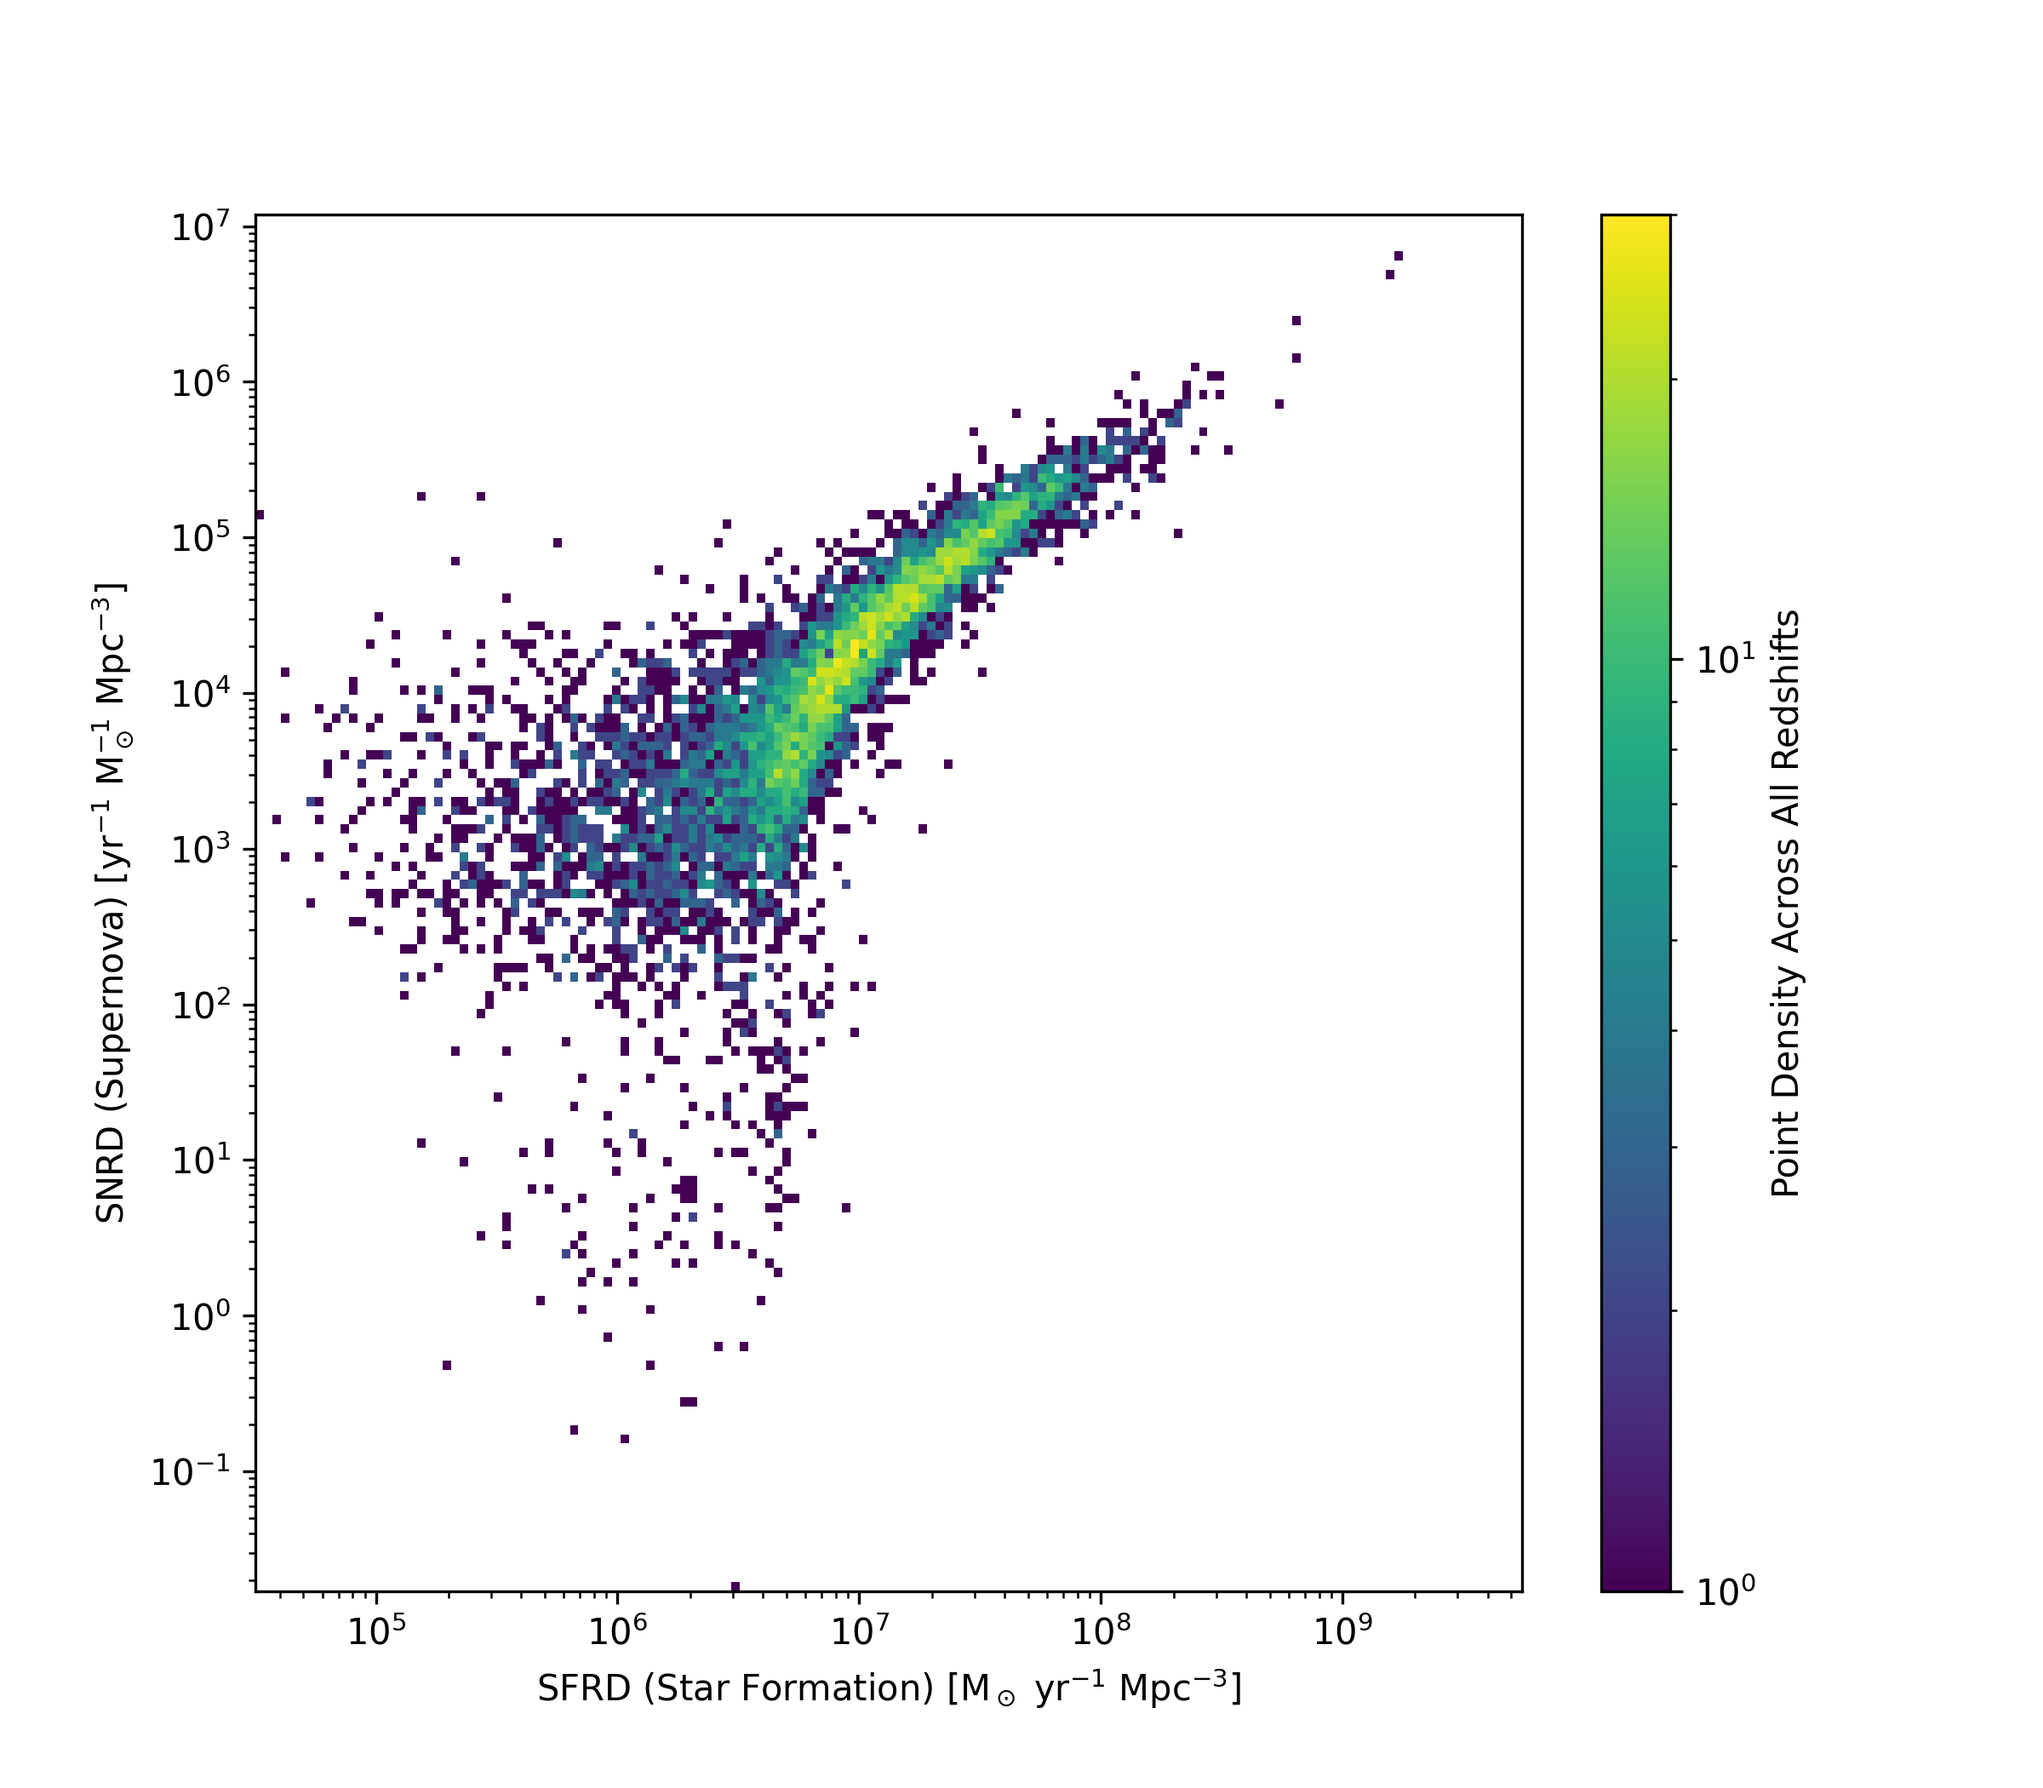
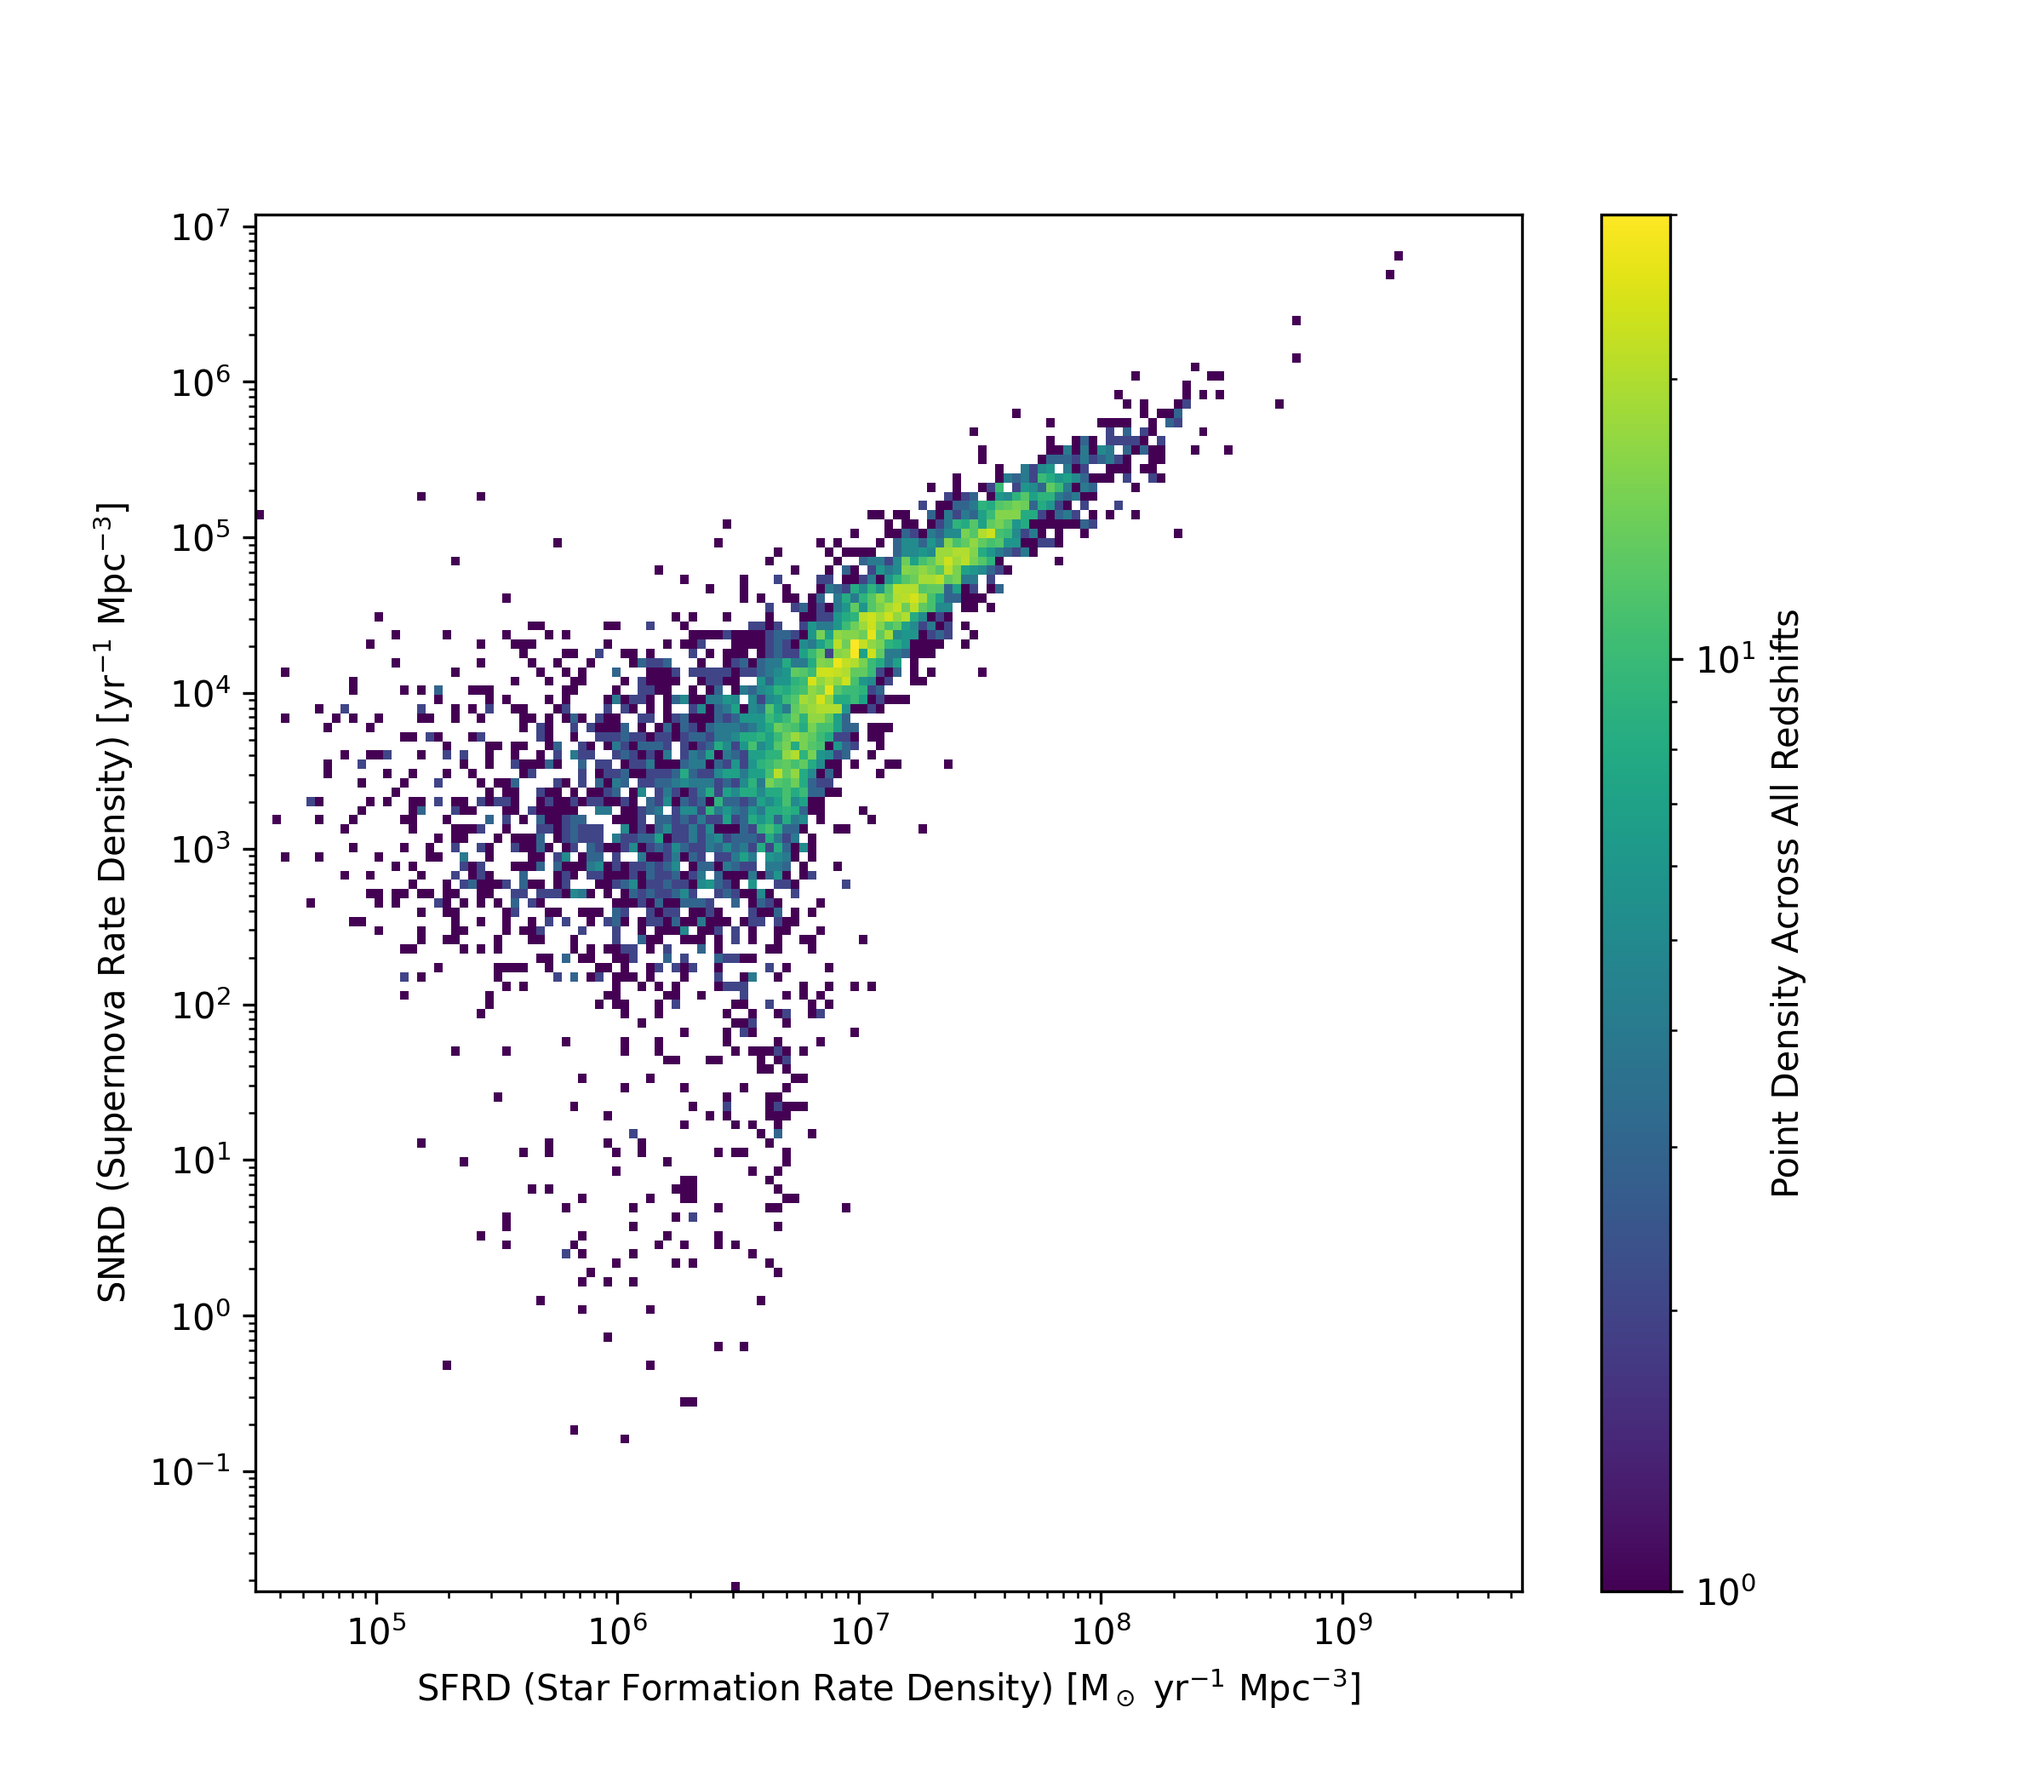
updated units

Changed region(s): [[0.1875, 0.9286, 0.6562, 0.9595], [0.0312, 0.3095, 0.0625, 0.7119]]

diff --git a/tng.py b/tng.py
@@ -306,11 +306,12 @@ def line_fit(x, y):
 def halo_level(snaps):
     
     # set up figures and axes
-    fig_halo_rate, ax_hr = plt_helper(8,7, r'SFR (Star Formation) [$\mathrm{M_\odot\ yr^{-1}}$]', r'SNRD (Supernova) [$\mathrm{yr^{-1}\ M_\odot^{-1}}$]', legendspace=0.2)
-    fig_halo_density, ax_hrd = plt_helper(8,7, r'SFRD (Star Formation) [$\mathrm{M_\odot\ yr^{-1}\ Mpc^{-3}}$]', r'SNRD (Supernova) [$\mathrm{yr^{-1}\ M_\odot^{-1}\ Mpc^{-3}}$]', legendspace=0.2)
-    fig_hist, ax_hist = plt_helper(8,7, r'SFRD (Star Formation) [$\mathrm{M_\odot\ yr^{-1}\ Mpc^{-3}}$]', r'SNRD (Supernova) [$\mathrm{yr^{-1}\ M_\odot^{-1}\ Mpc^{-3}}$]')
-    fig_dense, ax_dense = plt_helper(8, 7, r'SFRD (Star Formation) [$\mathrm{M_\odot\ yr^{-1}\ Mpc^{-3}}$]', r'SNRD (Supernova) [$\mathrm{yr^{-1}\ M_\odot^{-1}\ Mpc^{-3}}$]', legendspace=0.15)
-    fig_av, ax_av = plt_helper(8, 7, r'SFRD (Star Formation) [$\mathrm{M_\odot\ yr^{-1}\ Mpc^{-3}}$]', r'SNRD (Supernova) [$\mathrm{yr^{-1}\ M_\odot^{-1}\ Mpc^{-3}}$]', legendspace=0.15, logx=False, logy=False)
+    fig_halo_rate, ax_hr = plt_helper(8,7, r'SFR (Star Formation Rate) [$\mathrm{M_\odot\ yr^{-1}}$]', r'SNR (Supernova Rate) [$\mathrm{yr^{-1}}$]', legendspace=0.2)
+    fig_halo_density, ax_hrd = plt_helper(8,7, r'SFRD (Star Formation Rate Density) [$\mathrm{M_\odot\ yr^{-1}\ Mpc^{-3}}$]', r'SNRD (Supernova Rate Density) [$\mathrm{yr^{-1}\ Mpc^{-3}}$]', legendspace=0.2)
+    fig_hist, ax_hist = plt_helper(8,7, r'SFRD (Star Formation Rate Density) [$\mathrm{M_\odot\ yr^{-1}\ Mpc^{-3}}$]', r'SNRD (Supernova Rate Density) [$\mathrm{yr^{-1}\ Mpc^{-3}}$]')
+    fig_dense, ax_dense = plt_helper(8, 7, r'SFRD (Star Formation Rate Density) [$\mathrm{M_\odot\ yr^{-1}\ Mpc^{-3}}$]', r'SNRD (Supernova Rate Density) [$\mathrm{yr^{-1}\ Mpc^{-3}}$]', legendspace=0.15)
+    fig_av, ax_av = plt_helper(8, 7, r'SFRD (Star Formation Rate Density) [$\mathrm{M_\odot\ yr^{-1}\ Mpc^{-3}}$]', r'SNRD (Supernova Rate Density) [$\mathrm{yr^{-1}\ Mpc^{-3}}$]', legendspace=0.15, logx=False, logy=False)
+    fig_mass, ax_mass = plt_helper(8, 7, r'Mass [$\mathrm{M_\odot}$]', r'SNR (Supernova Rate) [$\mathrm{yr^{-1}\ M_\odot^{-1}}$]', legendspace=0.15)
 
     all_snrd = []
     all_sfrd = []
@@ -331,15 +332,22 @@ def halo_level(snaps):
         # convert to Mpc3 from Gpc3 => times 1e-9
         sfrd = subhalo_df['sfrd']*1e-9
         snrd = subhalo_df["snrd"]*1e-9
-        # changed from using snr to snr_solar for comparioison to BPASS paper
-        ax_hr.scatter(subhalo_df['sfr'], subhalo_df["snr_solar"], marker='.', color=colours[idx], label=f'z={round(redshift,3)}')
+        ax_hr.scatter(subhalo_df['sfr'], subhalo_df["snr"], marker='.', color=colours[idx], label=f'z={round(redshift,3)}')
         ax_hrd.scatter(sfrd, snrd, marker='.', color=colours[idx], label=f'z={round(redshift,3)}')
 
-        # add to list to be used in histogram
+        # snr_solar should be calculated as sum(pixel_snr)/sum(mass)
+        # these values corrosponds to bpass paper 
+        snr_solar = subhalo_df["snr"]/subhalo_df['mass']
+        ax_mass.scatter(subhalo_df['mass'], snr_solar, marker='.', color=colours[idx], label=f'z={round(redshift,3)}')
+
+        # add to list to be used in 2d density histogram
         all_sfrd.append(sfrd)
         all_snrd.append(snrd)
 
         # add to average list 
+        # average should be snrd in yr-1 Mpc-3 and sfrd in Mo yr-1 Mpc-3
+        # this means an effective kcc scaling can be calculated in Mo-1 (should be linear)
+        # snrd is now calulated in these unit in BPASS analysis as event rates are in yr-1
         av_snrd, av_sfrd = average_rate_densities(snrd, sfrd)
         all_av_snrd.append(av_snrd)
         all_av_sfrd.append(av_sfrd)
@@ -597,7 +605,7 @@ for sn_type in all_sn_types:
     else:
         total_snr = total_snr + snrd
 
-    plot_names = ['1', '2', '3', 'halo_rates', 'halo_rate_density', 'halo_hist', 'halo_hist_reduced', 'halo_average', 'cosmic_snr', 'cosmic_sfr']
+    plot_names = ['1', '2', '3', 'halo_rates', 'halo_rate_density', 'halo_hist', 'halo_hist_reduced', 'halo_average', 'halo_snr_solar', 'cosmic_snr', 'cosmic_sfr']
     for idx, fig_num in enumerate(plt.get_fignums()):
         if idx > 2:
             curr_fig = plt.figure(fig_num)
